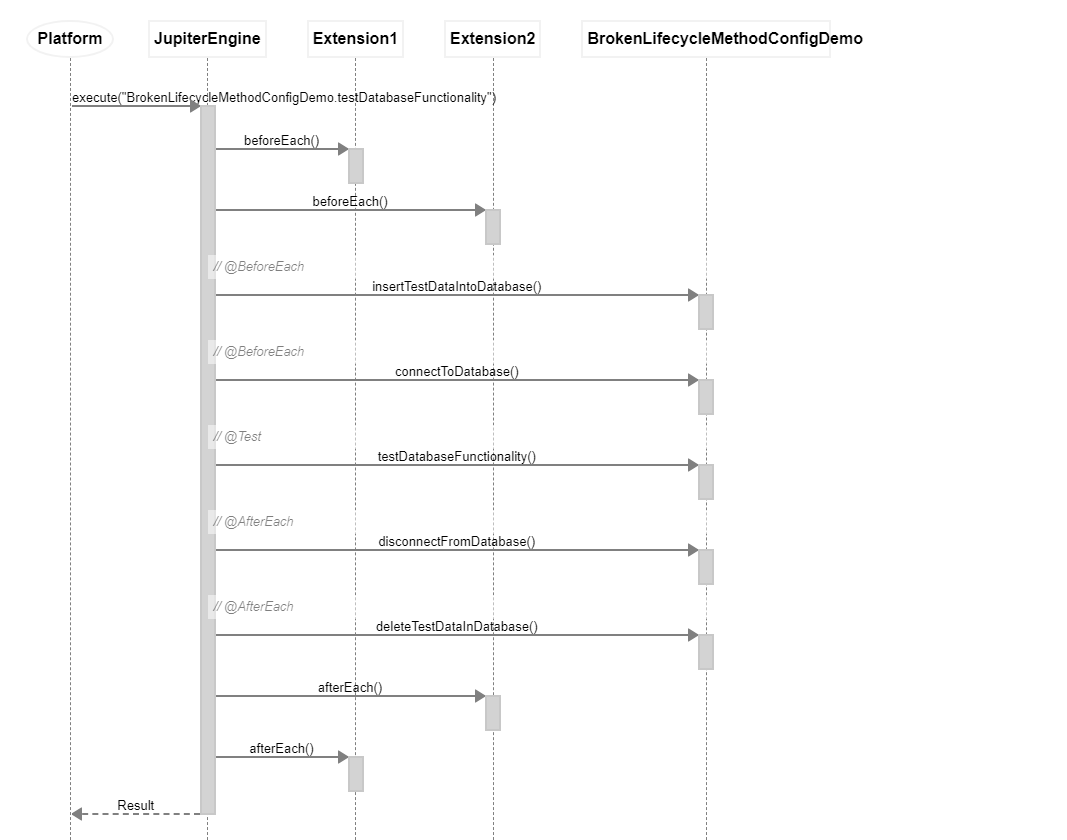
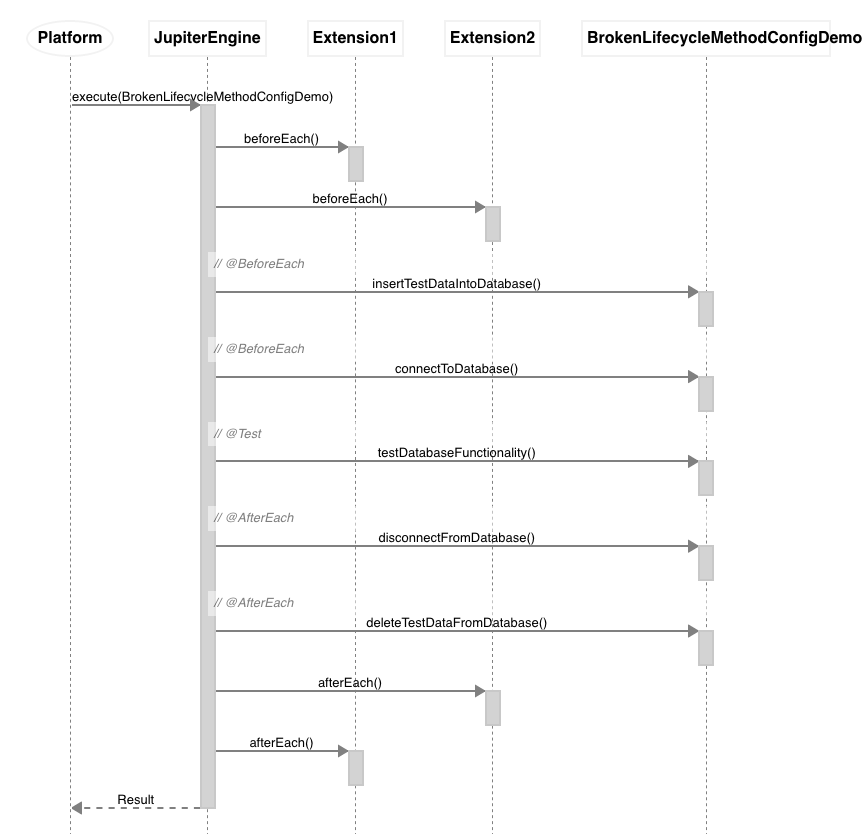
Update demos and diagrams for lifecycle callbacks
Issue: #1620

diff --git a/documentation/src/test/java/example/callbacks/DatabaseTestsDemo.java b/documentation/src/test/java/example/callbacks/DatabaseTestsDemo.java
@@ -46,13 +46,13 @@ class DatabaseTestsDemo extends AbstractDatabaseTests {
 	}
 
 	@AfterEach
-	void deleteTestDataInDatabase() {
-		afterEachMethod(getClass().getSimpleName() + ".deleteTestDataInDatabase()");
+	void deleteTestDataFromDatabase() {
+		afterEachMethod(getClass().getSimpleName() + ".deleteTestDataFromDatabase()");
 	}
 
 	@AfterAll
 	static void afterAll() {
-		beforeAllMethod(DatabaseTestsDemo.class.getSimpleName() + ".beforeAll()");
+		beforeAllMethod(DatabaseTestsDemo.class.getSimpleName() + ".afterAll()");
 	}
 
 }

diff --git a/documentation/src/test/java/example/callbacks/BrokenLifecycleMethodConfigDemo.java b/documentation/src/test/java/example/callbacks/BrokenLifecycleMethodConfigDemo.java
@@ -45,8 +45,8 @@ class BrokenLifecycleMethodConfigDemo {
 	}
 
 	@AfterEach
-	void deleteTestDataInDatabase() {
-		afterEachMethod(getClass().getSimpleName() + ".deleteTestDataInDatabase()");
+	void deleteTestDataFromDatabase() {
+		afterEachMethod(getClass().getSimpleName() + ".deleteTestDataFromDatabase()");
 	}
 
 	@AfterEach
